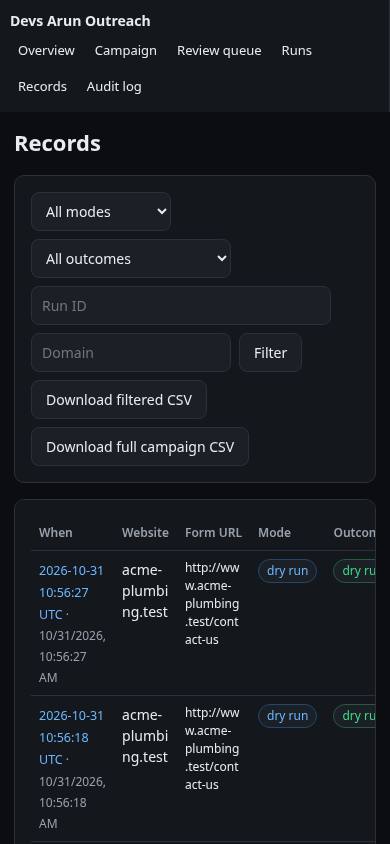
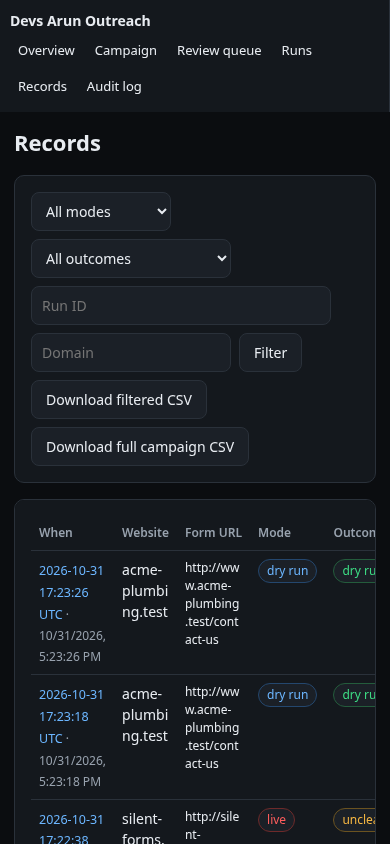
Never let one website hang the whole run (fix for run 41195634794)
A site froze the browser at item 91; the runner waited forever (heartbeat kept running)
until GitHub killed the job after 330 min.
- Hard time limit per website (inspection 3 min, form attempt 4 min); on timeout the
  browser is restarted and the site is skipped (live attempts past the submit gate stay
  'submitting' -> uncertain, never retried)
- Orchestrator watchdog: no new event for 12 min -> runner is stopped, run closed safely
- Lost live runs with no uncertain attempts are reconciled automatically
- Test: fixture site with a runaway script

diff --git a/runner/index.ts b/runner/index.ts
@@ -21,6 +21,13 @@ function envReq(name: string): string {
   return v;
 }
 
+class ItemTimeout extends Error {}
+/** Hard limit per website: a page with a runaway script can block page.evaluate forever. */
+function withTimeout<T>(p: Promise<T>, ms: number, what: string): Promise<T> {
+  let t: NodeJS.Timeout;
+  return Promise.race([p, new Promise<T>((_, rej) => { t = setTimeout(() => rej(new ItemTimeout(`${what} took longer than ${Math.round(ms / 1000)} s`)), ms); })]).finally(() => clearTimeout(t));
+}
+
 const log = (msg: string) => console.log(`[runner ${new Date().toISOString()}] ${msg}`);
 
 async function main(): Promise<number> {
@@ -59,13 +66,23 @@ async function main(): Promise<number> {
   process.on("SIGTERM", onSignal);
 
   let g: GuardedContext | null = null;
+  const launchOpts = {
+    testHostSuffix: testMode ? process.env.RUNNER_TEST_HOST_SUFFIX : undefined,
+    hostResolverRules: testMode ? process.env.RUNNER_TEST_HOST_RESOLVER_RULES : undefined,
+  };
+  const inspectMs = Number(process.env.RUNNER_INSPECT_TIMEOUT_MS || 180_000);
+  const attemptMs = Number(process.env.RUNNER_ATTEMPT_TIMEOUT_MS || 240_000);
+  /** Kill a hung browser and start a fresh one. */
+  const restartBrowser = async () => {
+    const old = g;
+    g = null;
+    await Promise.race([old?.close(), new Promise((r) => setTimeout(r, 15_000))]).catch(() => undefined);
+    g = await launchGuarded(launchOpts);
+  };
   let reason = "queue_exhausted";
   let error: string | undefined;
   try {
-    g = await launchGuarded({
-      testHostSuffix: testMode ? process.env.RUNNER_TEST_HOST_SUFFIX : undefined,
-      hostResolverRules: testMode ? process.env.RUNNER_TEST_HOST_RESOLVER_RULES : undefined,
-    });
+    g = await launchGuarded(launchOpts);
 
     if (claim.offerCheck.required && claim.offerCheck.facts.length) {
       const page = await g.context.newPage();
@@ -120,11 +137,28 @@ async function main(): Promise<number> {
             }
           }
         } else if (work.type === "inspect") {
-          await inspectCandidate(g, api, work);
-          log(`item ${processed}: inspection done`);
+          try {
+            await withTimeout(inspectCandidate(g!, api, work), inspectMs, "Website inspection");
+            log(`item ${processed}: inspection done`);
+          } catch (e) {
+            if (!(e instanceof ItemTimeout)) throw e;
+            log(`item ${processed}: inspection timed out, restarting browser`);
+            await restartBrowser();
+            await api.inspection({ candidateId: work.candidateId, status: "error", error: `Website froze the browser (${e.message}); skipped` }).catch(() => undefined);
+          }
         } else {
-          const outcome = await processAttempt(g, api, work);
-          log(`item ${processed}: ${work.type} attempt -> ${outcome}`);
+          try {
+            const outcome = await withTimeout(processAttempt(g!, api, work), attemptMs, "Form attempt");
+            log(`item ${processed}: ${work.type} attempt -> ${outcome}`);
+          } catch (e) {
+            if (!(e instanceof ItemTimeout)) throw e;
+            log(`item ${processed}: ${work.type} attempt timed out, restarting browser`);
+            await restartBrowser();
+            // Only accepted if submit was NOT attempted yet; an attempt already past the submit gate
+            // is refused here by the server and becomes "uncertain" (never retried).
+            await api.attempt({ attemptId: work.attemptId, status: work.type === "live" ? "failed_before_submit" : "dry_run_failed",
+              error: `Website froze the browser (${e.message}); skipped` }).catch(() => undefined);
+          }
         }
         consecutiveErrors = 0;
       } catch (e) {

diff --git a/tests/github-mode/hang.test.ts b/tests/github-mode/hang.test.ts
@@ -1,0 +1,57 @@
+/** A website that freezes the browser must be skipped, not block the whole run (real incident, run 41195634794). */
+import { execFileSync, spawn } from "node:child_process";
+import { cpSync, mkdtempSync, readFileSync, writeFileSync } from "node:fs";
+import { createServer } from "node:http";
+import { tmpdir } from "node:os";
+import { join, resolve } from "node:path";
+import { afterAll, beforeAll, expect, it } from "vitest";
+import { createTestDatabase } from "../helpers/db";
+import { startFixtureSites } from "../e2e/fixtures/sites";
+
+const ROOT = resolve(__dirname, "..", "..");
+let tmp = "", dbUrl = "", drop: () => Promise<void>;
+let sites: Awaited<ReturnType<typeof startFixtureSites>>;
+let overpass: ReturnType<typeof createServer>;
+
+beforeAll(async () => {
+  tmp = mkdtempSync(join(tmpdir(), "hang-"));
+  execFileSync("git", ["init", "-q", "--bare", join(tmp, "o.git")]);
+  execFileSync("git", ["init", "-q", "-b", "outreach-state", join(tmp, "state")]);
+  execFileSync("git", ["-C", join(tmp, "state"), "remote", "add", "origin", join(tmp, "o.git")]);
+  cpSync(join(ROOT, "outreach"), join(tmp, "outreach"), { recursive: true });
+  const cfg = JSON.parse(readFileSync(join(tmp, "outreach", "campaign.json"), "utf8"));
+  Object.assign(cfg, { countries: ["US"], osm_categories: ["craft=plumber"], search_queries: [], min_delay_seconds: 5, allow_live: false, auto_approve: false });
+  writeFileSync(join(tmp, "outreach", "campaign.json"), JSON.stringify(cfg));
+  const d = await createTestDatabase(); dbUrl = d.url; drop = d.drop;
+  sites = await startFixtureSites(4610);
+  overpass = createServer((_q, res) => {
+    res.writeHead(200, { "Content-Type": "application/json" });
+    res.end(JSON.stringify({ elements: [
+      { tags: { name: "Frozen", website: "http://frozen-site.test/" } },
+      { tags: { name: "OSM Plumber Co", website: "http://osm-plumber.test/" } },
+    ] }));
+  });
+  await new Promise<void>((r) => overpass.listen(4620, "127.0.0.1", () => r()));
+}, 120_000);
+afterAll(async () => { await sites?.close(); overpass?.close(); await drop?.(); });
+
+it("skips a site that freezes the browser and keeps going", async () => {
+  const out: string = await new Promise((done) => {
+    const c = spawn(process.execPath, ["--conditions=react-server", "--import", "tsx", "scripts/gh/outreach.ts", "run"], {
+      cwd: ROOT, stdio: ["ignore", "pipe", "pipe"],
+      env: { ...process.env, DATABASE_URL: dbUrl, OUTREACH_EPHEMERAL_DB: "1", STATE_DIR: join(tmp, "state"), OUTREACH_CONFIG_DIR: join(tmp, "outreach"),
+        OUTREACH_MODE: "discovery", BRAVE_SEARCH_API_KEY: "", OVERPASS_API_URL: "http://127.0.0.1:4620/api", OVERPASS_MIN_INTERVAL_MS: "100",
+        RUNNER_TEST_MODE: "1", RUNNER_TEST_HOST_SUFFIX: ".test", RUNNER_TEST_HOST_RESOLVER_RULES: "MAP *.test 127.0.0.1:4610",
+        RUNNER_INSPECT_TIMEOUT_MS: "25000", GITHUB_TOKEN: "", GITHUB_STEP_SUMMARY: join(tmp, "s.md") },
+    });
+    let o = ""; c.stdout.on("data", (d) => (o += d)); c.stderr.on("data", (d) => (o += d)); c.on("exit", () => done(o));
+  });
+  expect(out).toMatch(/inspection timed out, restarting browser/);
+  expect(out).toMatch(/discovery run .* finished: completed/);
+  const cands = JSON.parse(readFileSync(join(tmp, "state", "state", "db", "candidates.json"), "utf8"));
+  const frozen = cands.find((c: any) => c.domain === "frozen-site.test");
+  const ok = cands.find((c: any) => c.domain === "osm-plumber.test");
+  expect(frozen.inspection_status).toBe("error");
+  expect(frozen.inspection_error).toMatch(/froze the browser/);
+  expect(ok.inspection_status).toBe("inspected");
+}, 240_000);

diff --git a/scripts/gh/outreach.ts b/scripts/gh/outreach.ts
@@ -240,13 +240,31 @@ async function cmdRun(): Promise<number> {
         await m.runs.requestStop(runId, `${ACTOR} (outreach-stop workflow)`).catch((e) => log(`stop failed: ${e.message}`));
       }
     }, 30_000);
+    // Watchdog: if the runner makes no progress (no new event) for too long, stop it.
+    // The run is then closed as lost: in-flight live attempts become "uncertain", never retried.
+    const stallMs = Number(process.env.OUTREACH_STALL_MINUTES || 12) * 60_000;
+    let lastProgress = Date.now();
+    let lastSeen = 0;
+    const watchdog = setInterval(async () => {
+      const [r] = await sql<{ id: number | null }[]>`select max(id)::int as id from run_events where run_id = ${runId}`.catch(() => [{ id: null }]);
+      if ((r?.id ?? 0) > lastSeen) { lastSeen = r!.id!; lastProgress = Date.now(); return; }
+      if (Date.now() - lastProgress > stallMs) {
+        log(`WATCHDOG: no progress for ${Math.round(stallMs / 60000)} min, stopping the runner`);
+        notes.push(`${mode}: runner stalled and was restarted by the watchdog`);
+        lastProgress = Date.now();
+        child?.kill("SIGKILL");
+      }
+    }, 30_000);
     const code: number = await new Promise((r) => child!.on("exit", (c) => r(c ?? 1)));
+    clearInterval(watchdog);
     clearInterval(evTimer); clearInterval(cpTimer); clearInterval(stopTimer); clearInterval(dashTimer);
     await printEvents();
     const run = await m.runs.getRun(runId);
     if (["queued", "running", "stopping"].includes(run.status)) {
       await m.runs.markLost(runId, `${ACTOR} (runner exited without finishing)`);
       log("runner did not finish the run; marked lost (in-flight live attempts -> uncertain)");
+      const [{ n }] = await sql<{ n: number }[]>`select count(*)::int as n from attempts where run_id = ${runId} and status in ('uncertain','submitting')`;
+      if (n === 0 && run.mode === "live") await m.runs.markRunReconciled(runId, `${ACTOR} (auto: no uncertain attempts)`).catch(() => undefined);
     }
     const final = await m.runs.getRun(runId);
     log(`${mode} run ${runId.slice(0, 8)} finished: ${final.status} (${final.finish_reason})`);

diff --git a/tests/e2e/fixtures/sites.ts b/tests/e2e/fixtures/sites.ts
@@ -72,6 +72,10 @@ const sites: Record<string, Site> = {
     if (req.url === "/contact") return { html: page("Contact", `<h1>Contact us</h1>${standardForm("/contact")}`) };
     return { status: 404, html: "nf" };
   },
+  "frozen-site.test": () => ({
+    // A runaway script that freezes the page after load (seen on a real site).
+    html: page("Frozen", `<a href="/contact">Contact</a><script>setTimeout(() => { for (;;) {} }, 300)</script>`),
+  }),
   "quiet-cafe.test": (req) => {
     if (req.url === "/") return { html: page("Quiet Cafe", `<h1>Quiet Cafe</h1><p>Call us. No online form.</p>`) };
     return { status: 404, html: "nf" };
